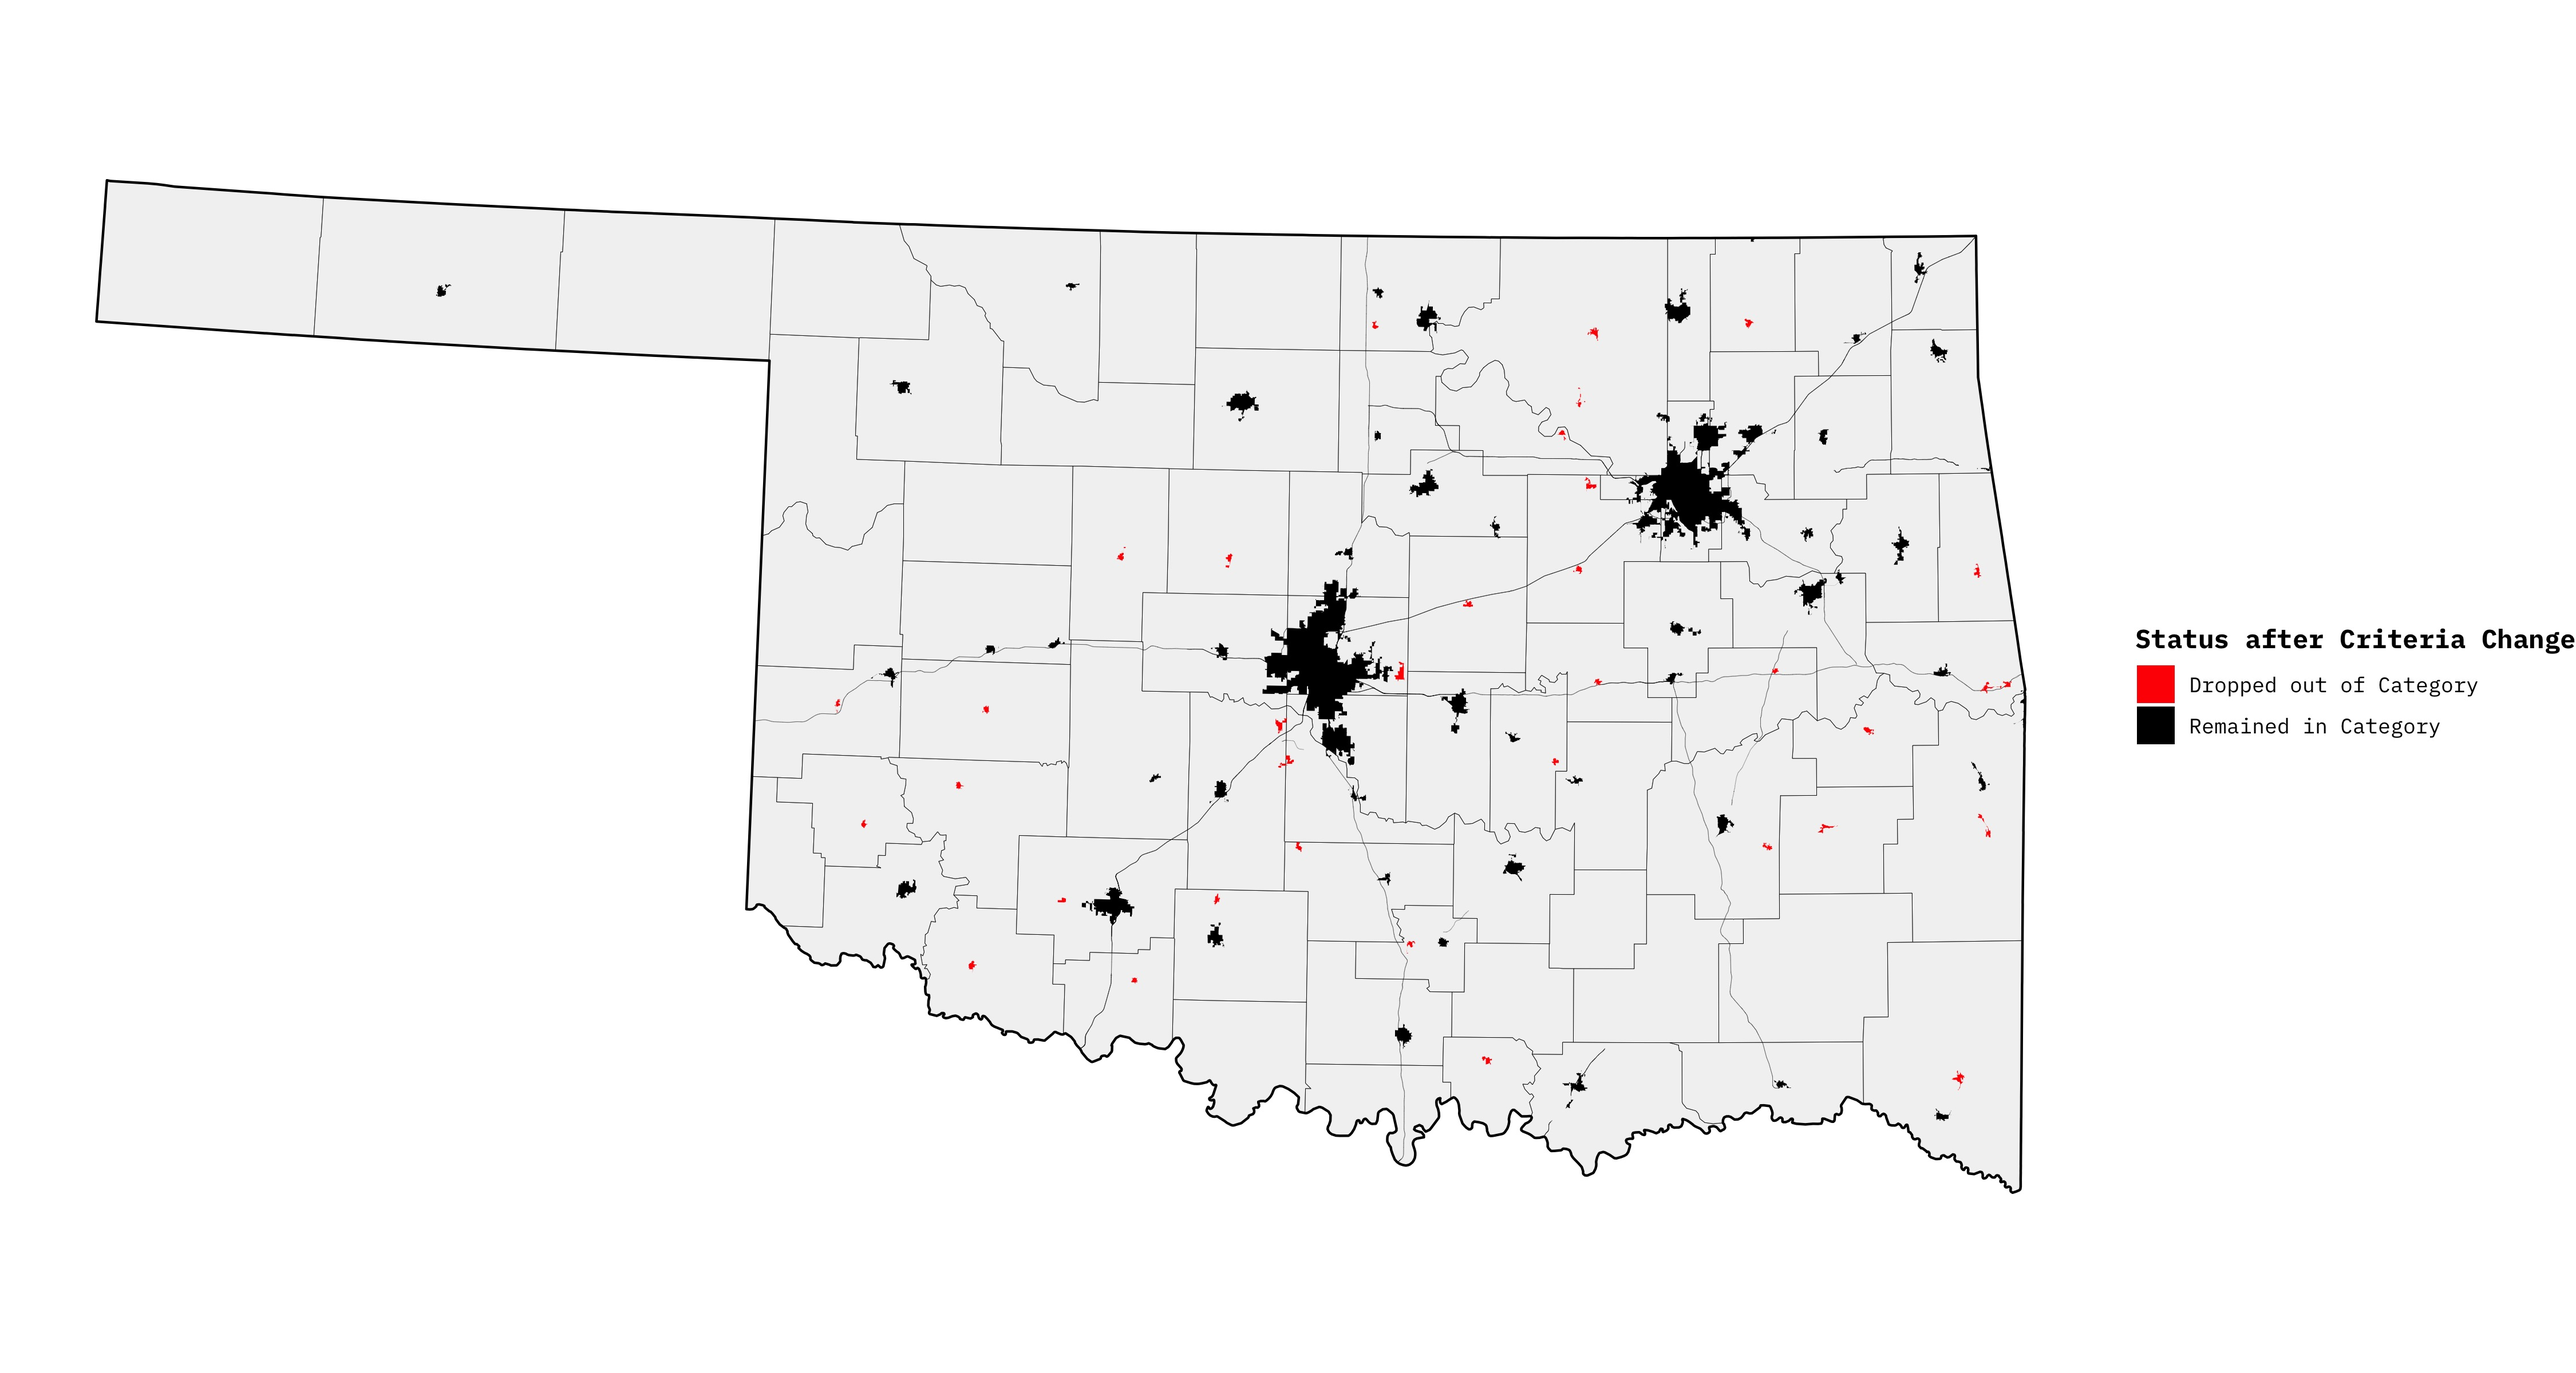
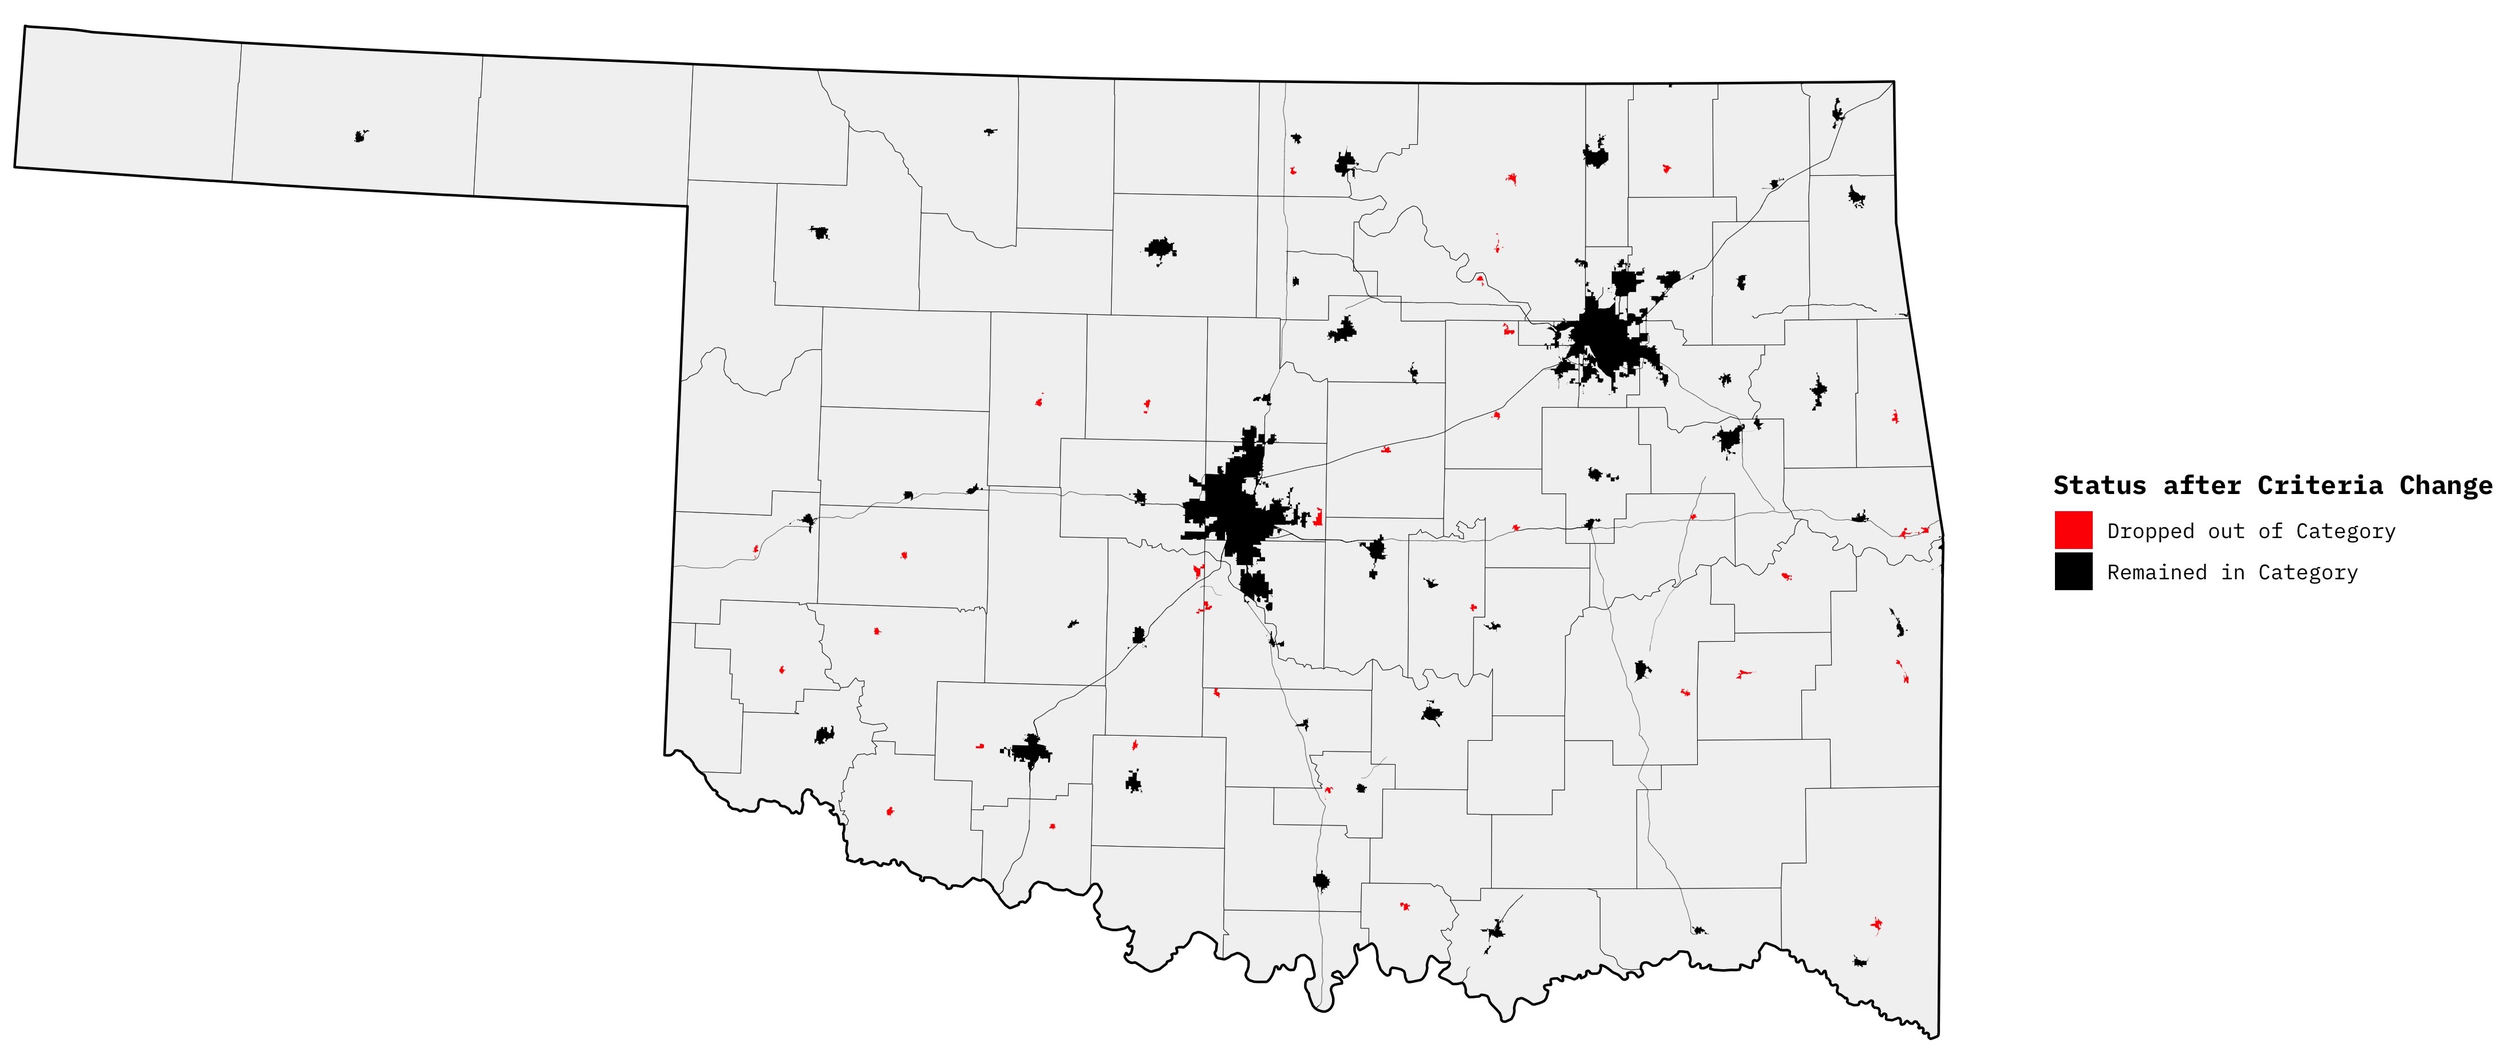
blog updates

diff --git a/content/post/urban_changes_2020/index.md b/content/post/urban_changes_2020/index.md
@@ -1,7 +1,7 @@
 ---
 # Documentation: https://wowchemy.com/docs/managing-content/
 
-title: "The U.S. Census Changed How it Classifies Urban Areas"
+title: "The U.S. Census Changed How it Defines Urban Areas"
 subtitle: "Over a Thousand Urban Areas From 2010 Are Now Considered Rural"
 summary: " "
 authors: []
@@ -35,9 +35,9 @@ I recently saw this tweet from the U.S. Census Bureau:
 </p>
 
 
-I remember reading public comments in response to the [OMB proposal](https://www.regulations.gov/document/OMB-2021-0001-0001) to potentially change its definition of metropolitan and non-metropolitan statistical areas, but I somehow completely missed the conversation around redefining urban areas!
+I remember reading public comments in response to the [OMB proposal](https://www.regulations.gov/document/OMB-2021-0001-0001) to potentially change its definition of metropolitan and non-metropolitan statistical areas, but I somehow completely missed the [conversation](https://www.census.gov/programs-surveys/geography/about/federal-register-notices.html#:~:text=SDRP%3A%20January%202018-,Urban%20Areas,-Notice%20of%20Final) around redefining urban areas!
 
-Before diving into any maps or commentary, I should be clear that, in comparison with the OMB's delineation of core-based statistical areas, the Census Bureau's definition of urban is far less relevant for local policymakers. Consider this [public comment](https://www.regulations.gov/comment/OMB-2021-0001-0097) from a planner in Rapid City, anticipating that the OMB's proposed change could potentially "*result in funding shortfalls related to numerous federal funding programs that use this designation as a requirement for eligibility*." In contrast, while the OMB uses metropolitan/non-metropolitan as a significant administrative unit (with non-trivial sums of money at stake), the Census definition of urban and rural is simply a means to describe the country's population.
+Before diving into any maps or commentary, I should be clear that, in comparison with the OMB's delineation of core-based statistical areas, the Census Bureau's definition of urban is far less relevant for local policymakers. Consider this [public comment](https://www.regulations.gov/comment/OMB-2021-0001-0097) from a planner in Rapid City, anticipating that the OMB's proposed change could potentially "*result in funding shortfalls related to numerous federal funding programs that use this designation as a requirement for eligibility*." In contrast, while the OMB uses metropolitan/non-metropolitan as a significant administrative unit (with non-trivial sums of money at stake), the Census definition of urban and rural is — with a few [exceptions](https://www.federalregister.gov/documents/2021/02/19/2021-03412/urban-areas-for-the-2020-census-proposed-criteria#:~:text=In%20delineating%20urban,of%20their%20programs.) — largely a means to **accurately describe the country's population**.
 
 That said, I think the urban/rural classification is still important. I'm usually not the biggest fan of changing definitional criteria over time. I like consistency: if a town enters into (or drops out of) the "urban" category, I prefer that it be due to changes within the town rather than changes to the rules. However, the "rules" of economic geography can and do change over time, and our criteria for classifying the observed universe must change along with them.
 
@@ -49,7 +49,7 @@ In the past, remote places, though small, could mirror their larger metropolitan
   McDowell Street in Welch, West Virginia in 1946 and 2015
 </p>
 
-The "non-metropolitan urbanized town" still exists in 2022, but there are just a whole lot fewer of them than there used to be. The Census Bureau's new guidelines simply reduce the number of false positives: places that *look* dense but no longer behave like an urban area.
+The "non-metropolitan urbanized town" still exists in 2022, but there are just a whole lot fewer of them than there used to be. The Census Bureau's new guidelines simply reduce the number of false positives: places that *look* dense but no longer behave like an urban area. Places like Welch, WV.
 
 The new changes are [summarized](https://www.census.gov/newsroom/blogs/random-samplings/2022/12/redefining-urban-areas-following-2020-census.html) as follows:
 
@@ -69,7 +69,9 @@ The most populated urban areas correspond with the darkest dots on the map, clea
 
 The next maps (and scrollable data table) show how each state fared in the aftermath of the criteria change. In raw terms, Texas lost the most urban areas, but West Virginia and New Jersey lost the highest *share* of their 2010 urban areas.
 
-[![Urban Areas Reduction](/img/maps/reduction.jpg)](https://raw.githubusercontent.com/andrewvanleuven/website/master/static/img/maps/reduction.jpg)
+| [![Urban Areas Reduction](/img/maps/reduction.jpg)](https://raw.githubusercontent.com/andrewvanleuven/website/master/static/img/maps/reduction.jpg) |
+|:--:|
+| *Note: for all maps, simply click on the image for a larger, high-resolution version.* |
 
 <p align="center">
 <iframe width="700" height="350" src="/viz/tab.html" title="Map" frameborder="0" allow="accelerometer; autoplay; clipboard-write; encrypted-media; gyroscope; picture-in-picture" allowfullscreen></iframe>
@@ -83,6 +85,8 @@ The shapefiles for Census-defined urban areas can be a useful cartographic featu
 
 After creating a similar map for my home state of Oklahoma, it is staggering to see how many urban areas fall of the map (pun intended) after this change in classification criteria. As stated above, I mostly agree with the rationale for and execution of the change. However, I'll admit that those little red polygons will be sorely missed as a neat little cartographic tool, showing regional population centers, big and small.
 
-[![Oklahoma Map after 2020 Changes](/img/maps/comparison.jpg)](https://raw.githubusercontent.com/andrewvanleuven/website/master/static/img/maps/comparison.jpg)
+| [![Oklahoma Map after 2020 Changes](/img/maps/comparison.jpg)](https://raw.githubusercontent.com/andrewvanleuven/website/master/static/img/maps/comparison.jpg) |
+|:--:|
+| *With the Census Bureau's new definition of urban, every red polygon in this map is now considered rural.* |
 
 As far as workarounds go, I can always a) hold onto the 2010 shapefiles, clutching tightly to "the old ways" or b) come up with my own classification scheme for regional population centers. But where's the fun in that?
